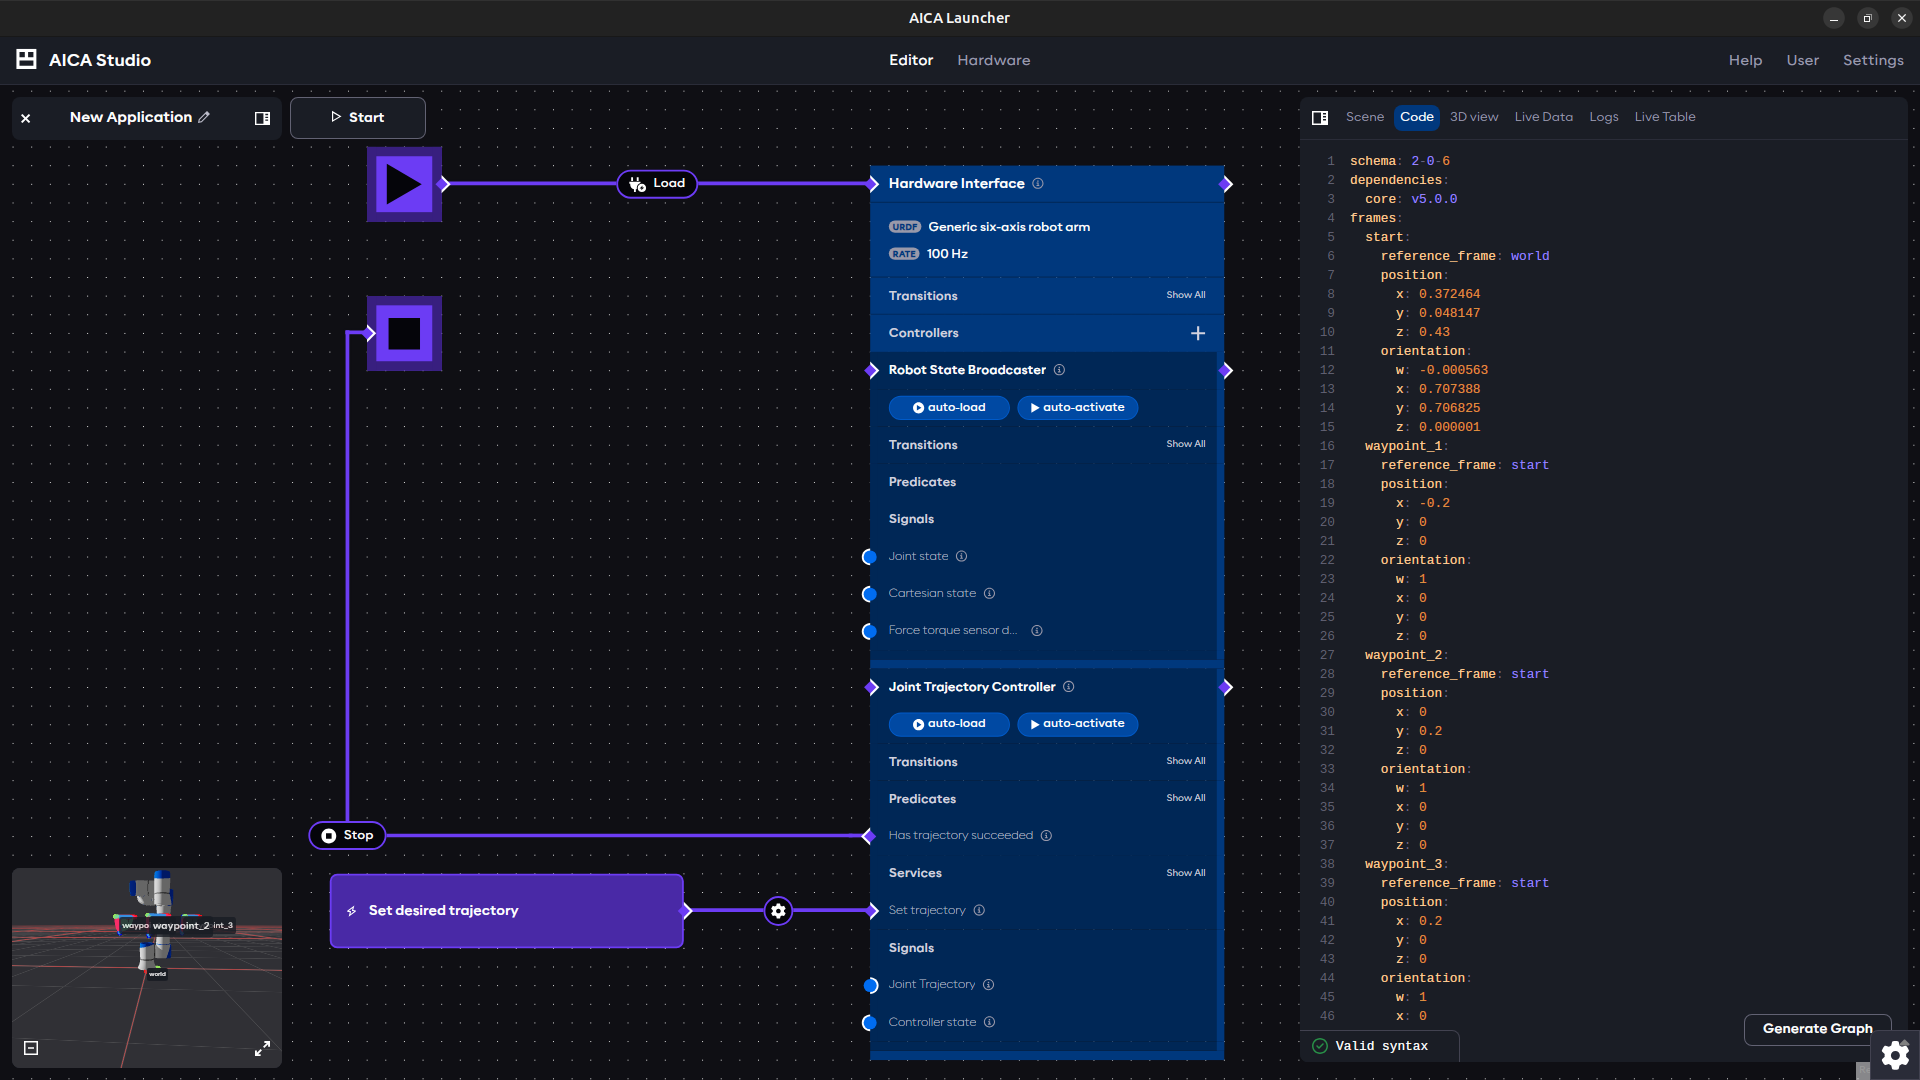
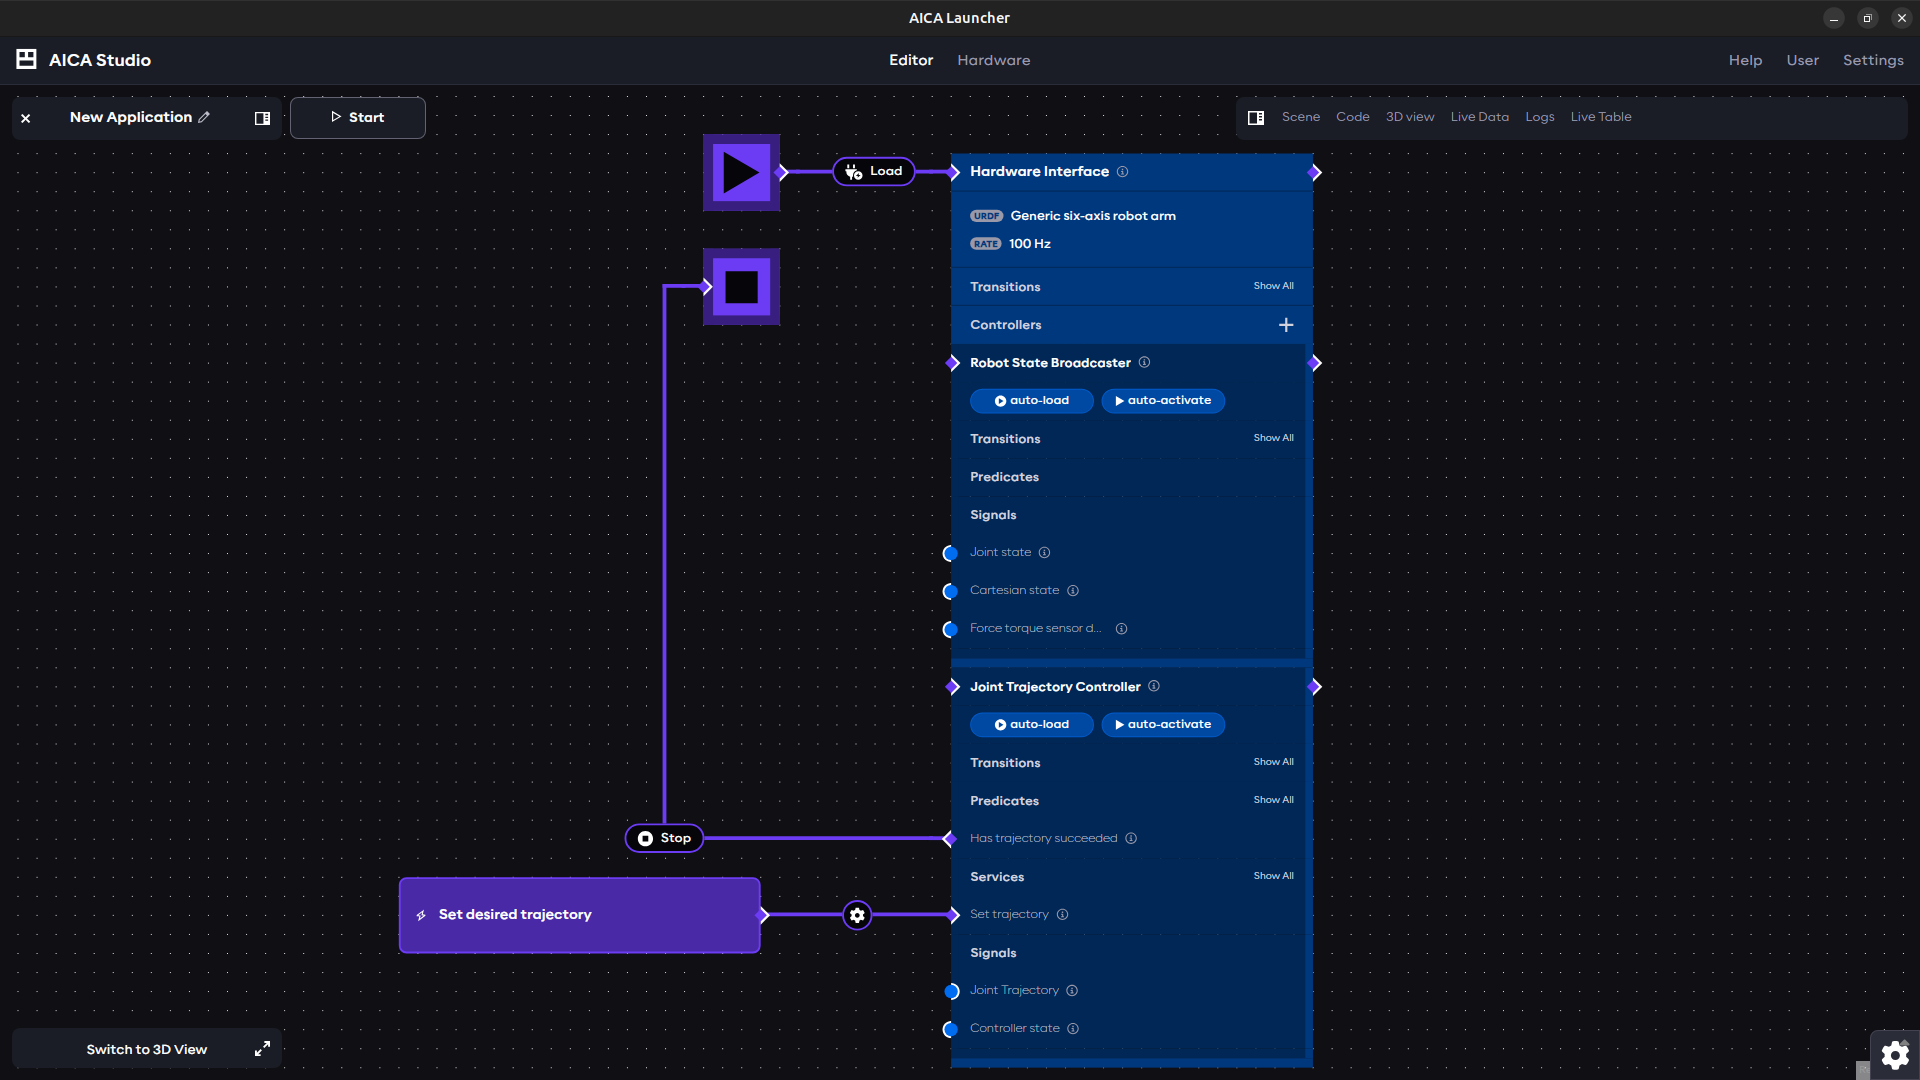
fix: suggestions from code review

Changed region(s): [[0.0, 0.0917, 0.875, 1.0], [0.1562, 0.275, 0.25, 0.3667], [0.9062, 0.9472, 0.9688, 0.9778]]

diff --git a/docs/core/examples/core-controllers/jtc-example.md b/docs/core/examples/core-controllers/jtc-example.md
@@ -167,7 +167,7 @@ shown below:
 The application starts by loading the `Robot State Broadcaster` and `Joint Trajectory Controller` for the generic
 six-axis robot. You may already start the application.
 
-After you press start, switch to the 3D view by clicking on the minimap on the bottom left. You should see your robot in
+After you press start, switch to the 3D view tab of the right panel. You should see your robot in
 its default joint configuration, along with 4 Cartesian frames named **start, waypoint_1, waypoint_2, and waypoint_3**
 that form a triangle. As you may have guessed, this application controls the robot such that it traverses the Cartesian
 frames in that order.
@@ -176,7 +176,7 @@ frames in that order.
   <img src={jtcExampleFrames} alt="Cartesian frames for JTC" />
 </div>
 
-For now, let us go to the Graph view tab on the right panel. Once there, turn your attention to the trigger button that
+On the main graph view, turn your attention to the trigger button that
 connects to the `Set trajectory` service of the Joint Trajectory controller. Click on the gear icon on the edge that
 connects the button to the controller. You will see the following service payload:
 
@@ -198,15 +198,15 @@ or YAML application. This way, you can intuitively anticipate the trajectory exe
 
 :::note
 
-The Graph view on the right panel does not allow graph modifications. To modify the payload, either switch back to Graph
-on the main view using the option on the bottom left, or modify the payload directly on the Code tab of the right panel.
+The Graph view on the right panel does not allow payload modifications or access when the application is playing. To modify the payload, either switch back to Graph
+on the main view using the mini-view switcher on the bottom left, or modify the payload directly on the Code tab of the right panel.
 
 :::
 
 ## Executing the trajectory
 
-Assuming you have already pressed play and you are currently in the graph view, go ahead and press the trigger button to
-start the execution of the trajectory. The 3D view should show the robot moving through the waypoints.
+Switch to the 3D view using the mini-view switcher and press the trigger button on the Graph View tab to
+start the execution of the trajectory. The main view should show the robot moving through the waypoints.
 
 <div class="text--center">
   <img src={jtcExampleRun} alt="JTC in action" />
